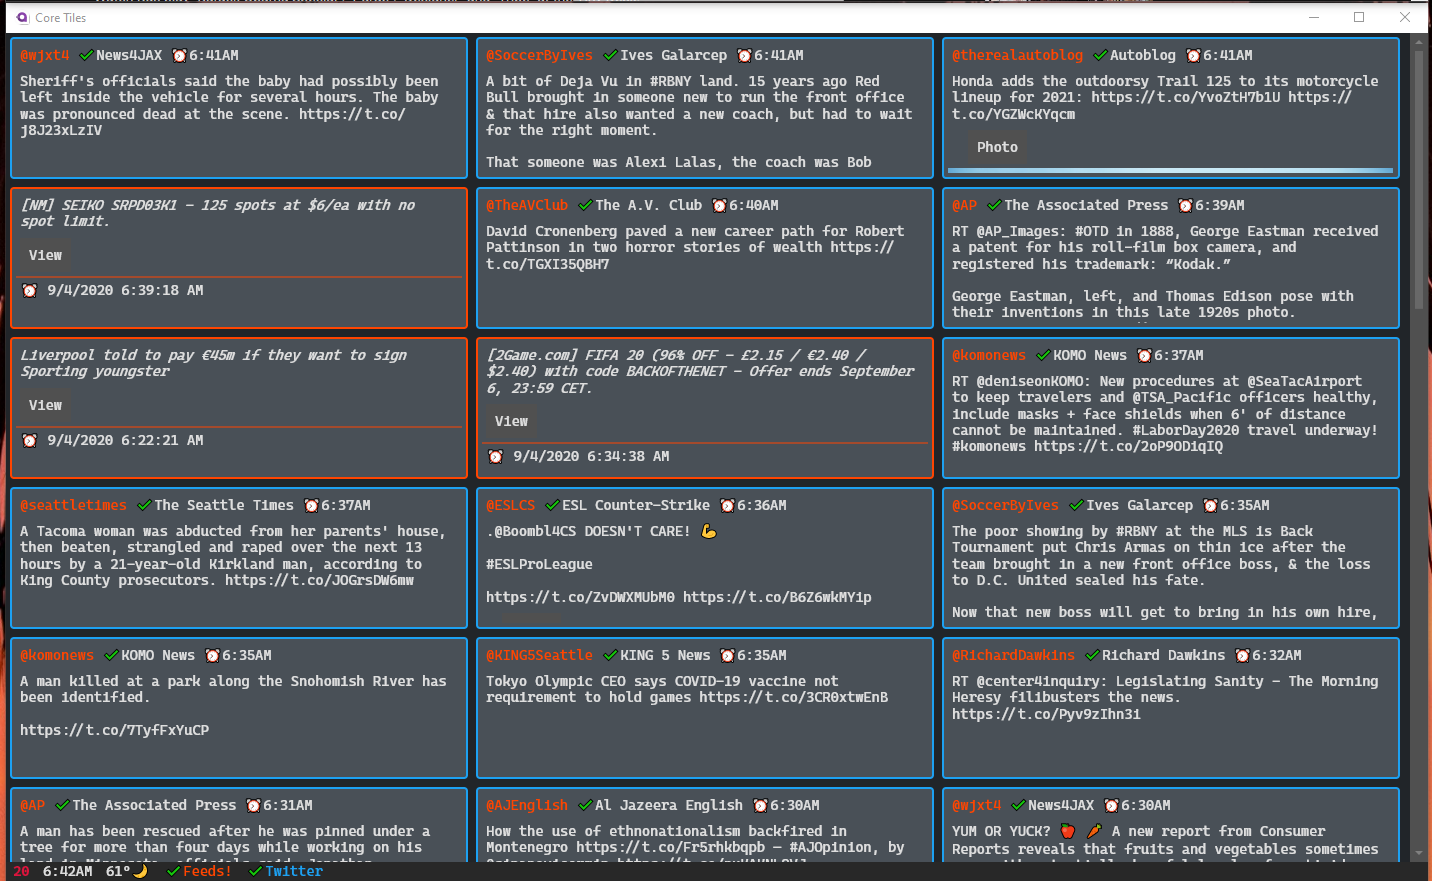
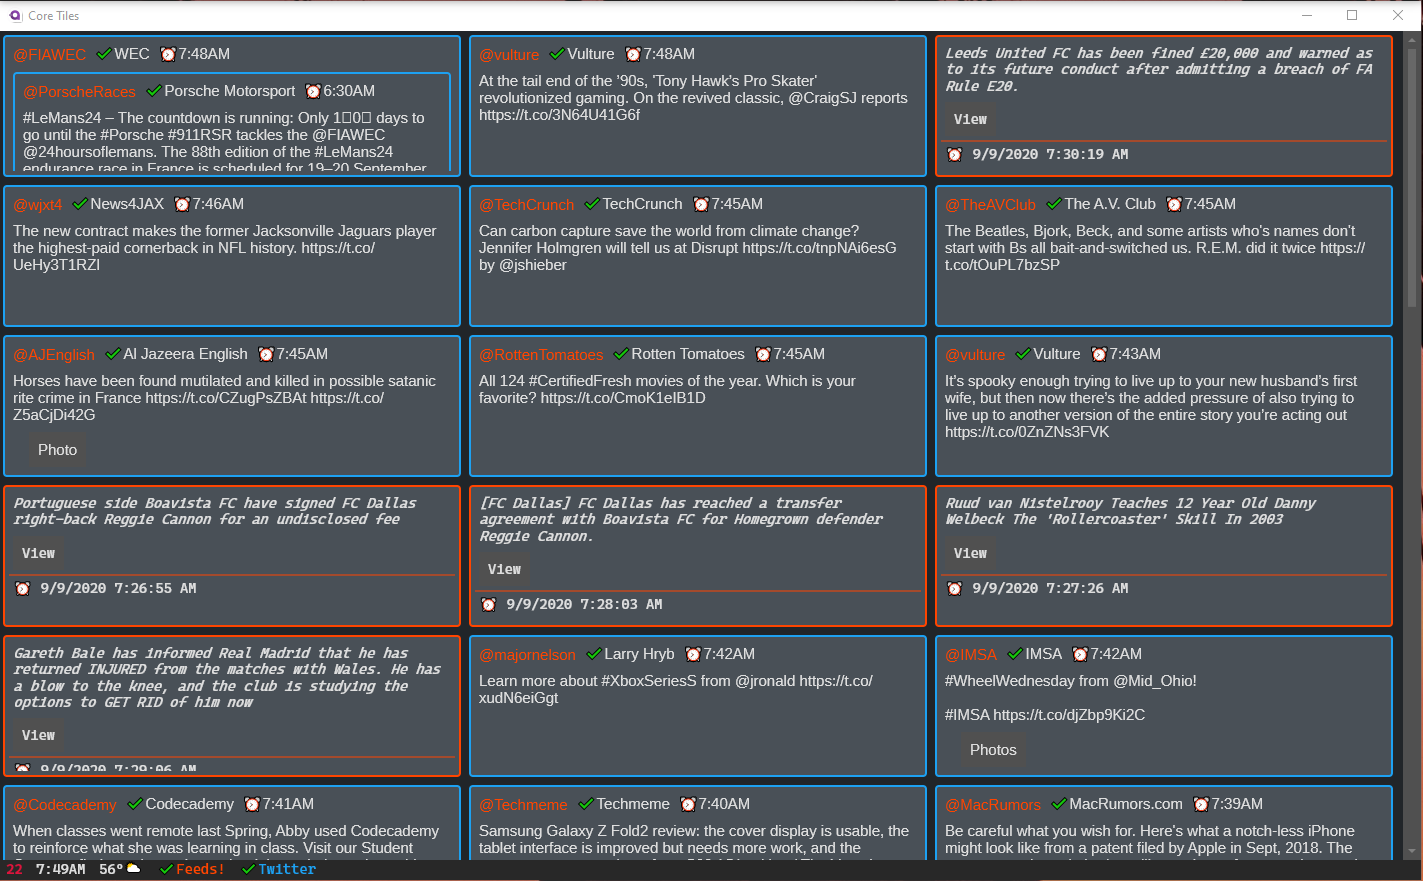
fixes & tweaks!

Changed region(s): [[0.0, 0.0, 1.0, 1.0]]

diff --git a/Tiles/Twitter/TweetTileViewModel.cs b/Tiles/Twitter/TweetTileViewModel.cs
@@ -36,7 +36,14 @@ namespace CoreTiles.Tiles
         public string ProfileUrl { get; set; }
         public string TweetUrl { get; set; }
         public string StatsUrl { get; set; }
-        public IControl QuoteTweet { get; }
+        public bool ShowAll { get; set; }
+
+        private IControl embeddedControl;
+        public IControl EmbeddedControl
+        {
+            get => embeddedControl;
+            set => this.RaiseAndSetIfChanged(ref embeddedControl, value);
+        }
 
         public TweetTileViewModel() { }
 
@@ -47,14 +54,25 @@ namespace CoreTiles.Tiles
             TweetUrl = tweet.Urls.Count == 0 ? tweet.Url : tweet.Urls[0].URL;
             StatsUrl = tweet.Url;
             Name = (tweet.CreatedBy.Verified ? "✔" : "") + tweet.CreatedBy.Name;
-            TweetText =
-                WebUtility.HtmlDecode(
-                    tweet.IsRetweet ? "RT @" + tweet.RetweetedTweet.CreatedBy.ScreenName + ": " + tweet.RetweetedTweet.FullText : tweet.FullText);
+            if (tweet.IsRetweet && tweet.RetweetedTweet.QuotedTweet != null)
+            {
+                TweetText = "RT @" + tweet.RetweetedTweet.CreatedBy.ScreenName + ": " + tweet.RetweetedTweet.FullText;
+            }
+            else if (tweet.IsRetweet && tweet.RetweetedTweet.QuotedTweet == null)
+            {
+                TweetText = string.Empty;
+            }
+            else
+            {
+                TweetText = tweet.FullText;
+            }
+            TweetText = WebUtility.HtmlDecode(TweetText);
             TweetTime = "⏰" + tweet.CreatedAt.ToShortTimeString().Replace(" ", "");
             var stats = tweet.RetweetCount + tweet.ReplyCount.GetValueOrDefault() + tweet.QuoteCount.GetValueOrDefault();
-            StatsCount = stats > 0 ? "🔁" + stats : string.Empty;
-            FavoriteCount = tweet.FavoriteCount > 0 ? "❤" + tweet.FavoriteCount : string.Empty;
-            
+            StatsCount = stats > 0 && !(tweet.IsRetweet && tweet.RetweetedTweet.QuotedTweet == null) ? "🔁" + stats : string.Empty;
+            FavoriteCount = tweet.FavoriteCount > 0 && !(tweet.IsRetweet && tweet.RetweetedTweet.QuotedTweet == null) ? "❤" + tweet.FavoriteCount : string.Empty;
+            ShowAll = !(tweet.IsRetweet && tweet.RetweetedTweet.QuotedTweet == null);
+
             VideoButtonEnabled = tweet.Media.Any(v => v.MediaType == "video");
             if (VideoButtonEnabled)
             {
@@ -95,29 +113,49 @@ namespace CoreTiles.Tiles
             });
 
             var isRetweetThatQuotes = tweet.IsRetweet && tweet.RetweetedTweet.QuotedTweet != null;
-            if (isRetweetThatQuotes || tweet.QuotedTweet != null)
+            if (isRetweetThatQuotes || tweet.QuotedTweet != null || tweet.RetweetedTweet != null)
             {
-                QuoteTweet =
-                    new TweetTile
-                    {
-                        DataContext = new TweetTileViewModel(isRetweetThatQuotes ? tweet.RetweetedTweet.QuotedTweet : tweet.QuotedTweet)
-                    };
+                ITweet useTweet = null;
+                if (isRetweetThatQuotes)
+                {
+                    useTweet = tweet.RetweetedTweet.QuotedTweet;
+                }
+                else if (tweet.QuotedTweet != null)
+                {
+                    useTweet = tweet.QuotedTweet;
+                }
+                else if (tweet.RetweetedTweet != null)
+                {
+                    useTweet = tweet.RetweetedTweet;
+                }
+
+                if (useTweet != null)
+                {
+                    EmbeddedControl =
+                        new TweetTile
+                        {
+                            DataContext = new TweetTileViewModel(useTweet)
+                        };
+                }
             }
             else
             {
                 if (photos.Count() == 1)
                 {
-                    var bytes = Helpers.HttpClient.GetByteArrayAsync(photos.Select(u => u.MediaURL).First()).Result;
-                    using var memoryStream = new MemoryStream(bytes);
-                    memoryStream.Seek(0, SeekOrigin.Begin);
-                    QuoteTweet = new Viewbox
+                    ReactiveCommand.Create(async () =>
                     {
-                        Stretch = Stretch.Uniform,
-                        Child = new Image
+                        var bytes = await Helpers.HttpClient.GetByteArrayAsync(photos.Select(u => u.MediaURL).First());
+                        using var memoryStream = new MemoryStream(bytes);
+                        memoryStream.Seek(0, SeekOrigin.Begin);
+                        EmbeddedControl = new Viewbox
                         {
-                            Source = new Bitmap(memoryStream)
-                        }
-                    };
+                            Stretch = Stretch.Uniform,
+                            Child = new Image
+                            {
+                                Source = new Bitmap(memoryStream)
+                            }
+                        };
+                    }).Execute().Subscribe();
                 }
             }
         }

diff --git a/Tiles/Twitter/Twitter.cs b/Tiles/Twitter/Twitter.cs
@@ -56,7 +56,7 @@ namespace CoreTiles.Tiles
 
         public ITweet CurrentTweet { get; }
 
-        private static IAssetLoader assets => AvaloniaLocator.Current.GetService<IAssetLoader>();
+        //private static IAssetLoader assets => AvaloniaLocator.Current.GetService<IAssetLoader>();
         private TwitterConfig twitterConfig = new TwitterConfig();
         private bool isConnected;
 
@@ -77,6 +77,8 @@ namespace CoreTiles.Tiles
             }
         }
 
+        IFilteredStream stream;
+
         private async Task InitTweetinvi()
         {
             MarkConnected(false);
@@ -89,7 +91,7 @@ namespace CoreTiles.Tiles
             Auth.SetUserCredentials(twitterConfig.ConsumerKey, twitterConfig.ConsumerSecret, twitterConfig.UserAccessToken, twitterConfig.UserAccessSecret);
             RateLimit.RateLimitTrackerMode = RateLimitTrackerMode.TrackAndAwait;
 
-            var stream = Tweetinvi.Stream.CreateFilteredStream();
+            stream = Tweetinvi.Stream.CreateFilteredStream();
             var friends = await User.GetAuthenticatedUser().GetFriendIdsAsync();
             friends.ForEach(f => stream.AddFollow(f));
             stream.MatchOn = MatchOn.Follower;
@@ -112,7 +114,7 @@ namespace CoreTiles.Tiles
                 Thread.Sleep(1000);
                 _ = stream.StartStreamMatchingAllConditionsAsync();
             };
-
+            
             var currentTimeline = await User.GetAuthenticatedUser().GetHomeTimelineAsync(20);
             foreach (var t in currentTimeline.OrderBy(c => c.CreatedAt))
             {
@@ -120,6 +122,12 @@ namespace CoreTiles.Tiles
             }
 
             _ = stream.StartStreamMatchingAllConditionsAsync();
+        }
+
+        public override void Dispose()
+        {
+            //todo refactor
+            stream?.StopStream();
         }
 
         private void MarkConnected(bool connected = true)

diff --git a/Tiles/Interface/Helpers.cs b/Tiles/Interface/Helpers.cs
@@ -1,5 +1,6 @@
 using Newtonsoft.Json;
 using System;
+using System.Collections.Concurrent;
 using System.IO;
 using System.Net.Http;
 using System.Threading.Tasks;
@@ -16,6 +17,8 @@ namespace CoreTiles.Tiles
         private static string TileTypeToConfigFileName(this Type t)
             => Path.Combine(GetConfigDirectory(), t.Name + "Config.json");
 
+        private static ConcurrentDictionary<Type, object> cachedConfigs = new ConcurrentDictionary<Type, object>();
+
         public static async Task SaveConfigFile<T>(object config) where T : Tile
         {
             try
@@ -24,6 +27,7 @@ namespace CoreTiles.Tiles
                 Directory.CreateDirectory(GetConfigDirectory());
                 using var streamwriter = new StreamWriter(typeof(T).TileTypeToConfigFileName());
                 await streamwriter.WriteAsync(data);
+                cachedConfigs.AddOrUpdate(typeof(T), config, (t, o) => config);
             }
             catch
             {
@@ -35,9 +39,15 @@ namespace CoreTiles.Tiles
         {
             try
             {
+                if (cachedConfigs.TryGetValue(typeof(P), out object value))
+                {
+                    return (T)value;
+                }
                 using var streamReader = new StreamReader(typeof(P).TileTypeToConfigFileName());
                 var data = await streamReader.ReadToEndAsync();
-                return JsonConvert.DeserializeObject<T>(data);
+                var config = JsonConvert.DeserializeObject<T>(data);
+                cachedConfigs.TryAdd(typeof(P), config);
+                return config;
             }
             catch
             {

diff --git a/Tiles/FeedHandler/FeedHandler.cs b/Tiles/FeedHandler/FeedHandler.cs
@@ -105,17 +105,19 @@ namespace Tiles.FeedHandler
             }));
         }
 
-        public override Task InitializeDebug() => Initialize();
-        //public override Task InitializeDebug()
-        //{
-        //    PushTileData(new FeedItem
-        //    {
-        //        Title = "Title",
-        //        Link = "https://www.google.com",
-        //        Content = "Content",
-        //        PublishDate = DateTime.Now
-        //    });
-        //    return Task.CompletedTask;
-        //}
+        public override void Dispose() => cancellationTokenSource.Cancel();
+
+        //public override Task InitializeDebug() => Initialize();
+        public override Task InitializeDebug()
+        {
+            PushTileData(new FeedItem
+            {
+                Title = "Title",
+                Link = "https://www.google.com",
+                Content = "Content",
+                PublishDate = DateTime.Now
+            });
+            return Task.CompletedTask;
+        }
     }
 }

diff --git a/Desktop/App.axaml.cs b/Desktop/App.axaml.cs
@@ -10,6 +10,8 @@ namespace CoreTiles.Desktop
 {
     public class App : Application
     {
+        private static Services services;
+
         public override void Initialize()
         {
             AvaloniaXamlLoader.Load(this);
@@ -19,13 +21,17 @@ namespace CoreTiles.Desktop
         {
             if (ApplicationLifetime is IClassicDesktopStyleApplicationLifetime desktop)
             {
+                services = new Services();
                 desktop.MainWindow = new MainWindow
                 {
-                    DataContext = new MainWindowViewModel(new Services())
+                    DataContext = new MainWindowViewModel(services)
                 };
+                desktop.Exit += (s, e) => services.Tiles.ForEach(t => t.Dispose());
             }
 
             base.OnFrameworkInitializationCompleted();
         }
+
+        
     }
 }

diff --git a/Desktop/InternalServices/SystemTile.cs b/Desktop/InternalServices/SystemTile.cs
@@ -41,7 +41,7 @@ namespace CoreTiles.Desktop.InternalServices
                 {
                     var window = new SystemTileConfigWindow
                     {
-                        Height = 400,
+                        Height = 500,
                         Width = 1200,
                         DataContext = new SystemTileViewModel(this.GetLogViewerControl())
                     };
@@ -84,10 +84,14 @@ namespace CoreTiles.Desktop.InternalServices
             }
             return new LogViewer
             {
+                Height = 400,
+                Width = 1100,
                 DataContext = new LogViewerViewModel(logs.ToString())
             };
         }
 
         public override Task InitializeDebug() => Initialize();
+
+        public override void Dispose() { }
     }
 }

diff --git a/Desktop/InternalServices/Weather.cs b/Desktop/InternalServices/Weather.cs
@@ -128,14 +128,20 @@ namespace CoreTiles.Desktop.InternalServices
             {
                 _infoLine += "☀";
             }
-            else
+            else if (DateTime.Now.Hour < 6 && DateTime.Now.Hour > 20)
             {
                 _infoLine += "🌙";
+            }
+            else
+            {
+                _infoLine += "⛅";
             }
             Log("Latest update: {0}", _infoLine);
             infoLine.OnNext(_infoLine);
         }
 
         public override Task InitializeDebug() => Initialize();
+
+        public override void Dispose() { }
     }
 }

diff --git a/Tiles/Twitter/DesignData.cs b/Tiles/Twitter/DesignData.cs
@@ -38,7 +38,7 @@ You can watch the game 𝗟𝗜𝗩𝗘 on 𝗟𝗙𝗖𝗧𝗩 and 𝗟𝗙𝗖
                 //todo replace with file with single tweet
                 const string dataFile = @"C:\Users\Tyler\source\repos\CoreTiles\Tiles\Twitter\sample.json";
                 var json = File.ReadAllText(dataFile);
-                var tweetDTO = json.ConvertJsonTo<ITweetDTO[]>()[145];
+                var tweetDTO = json.ConvertJsonTo<ITweetDTO[]>()[180];
                 return new TweetTileViewModel(Tweet.GenerateTweetFromDTO(tweetDTO));
             }
         }

diff --git a/Desktop/ViewModels/TileViewModel.cs b/Desktop/ViewModels/TileViewModel.cs
@@ -28,7 +28,7 @@ namespace CoreTiles.Desktop.ViewModels
         public ObservableCollection<IDataTemplate> TileDataTemplate { get; } = new ObservableCollection<IDataTemplate>();
 
         //todo make global config item and/or implement lazy loading?
-        private const int itemsToCache = 50;
+        private const int itemsToCache = 75;
         private Services _services;
         private ILogger logger = Log.ForContext<TileViewModel>();
 

diff --git a/Tiles/Interface/Tile.cs b/Tiles/Interface/Tile.cs
@@ -58,6 +58,8 @@ namespace CoreTiles.Tiles
         };
 
         protected void PushTileData(object data) => TileQueue.Enqueue(new TileData { Data = data });
+
+        public abstract void Dispose();
     }
 
     public struct TileData
@@ -65,7 +67,7 @@ namespace CoreTiles.Tiles
         public object Data { get; internal set; }
     }
 
-    public interface ITile
+    public interface ITile : IDisposable
     {
         Task Initialize();
 
